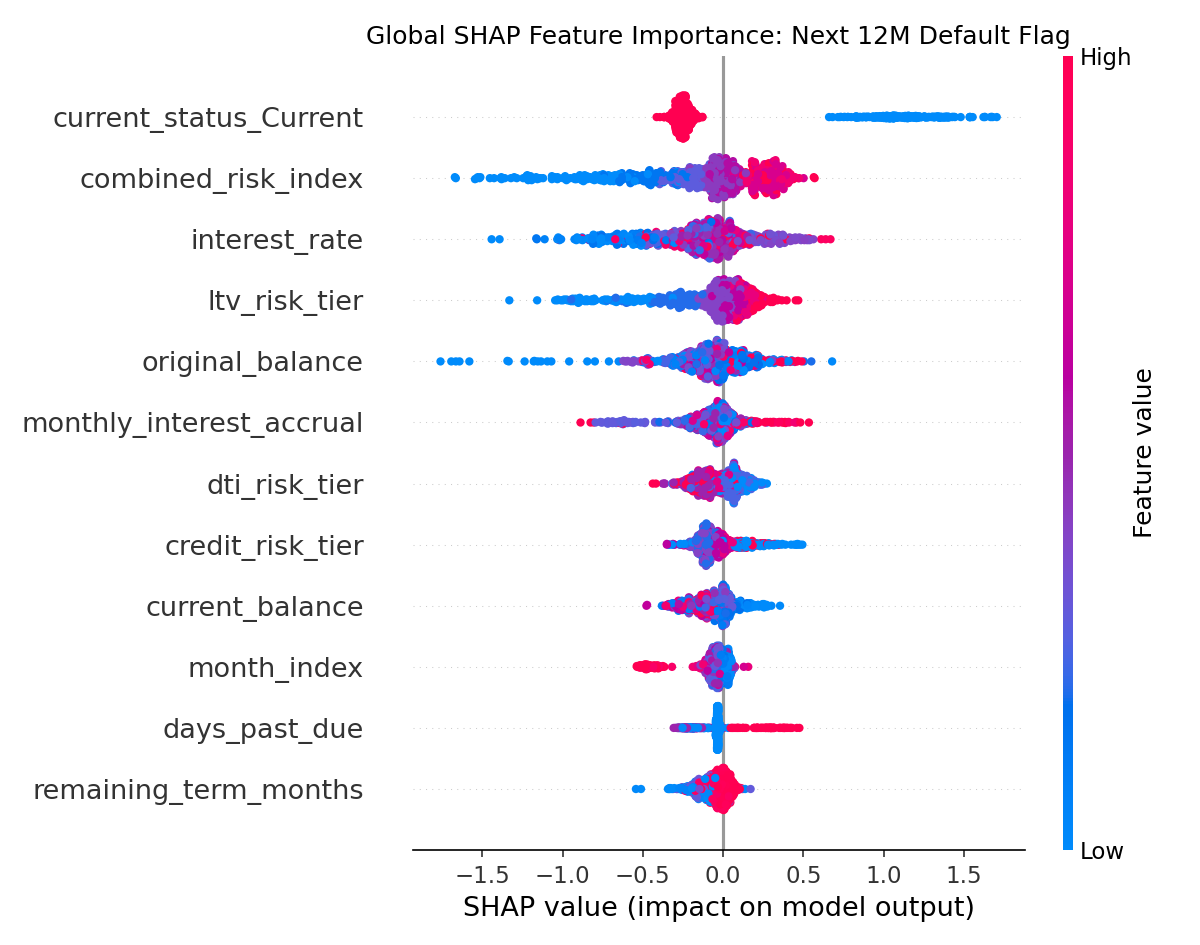
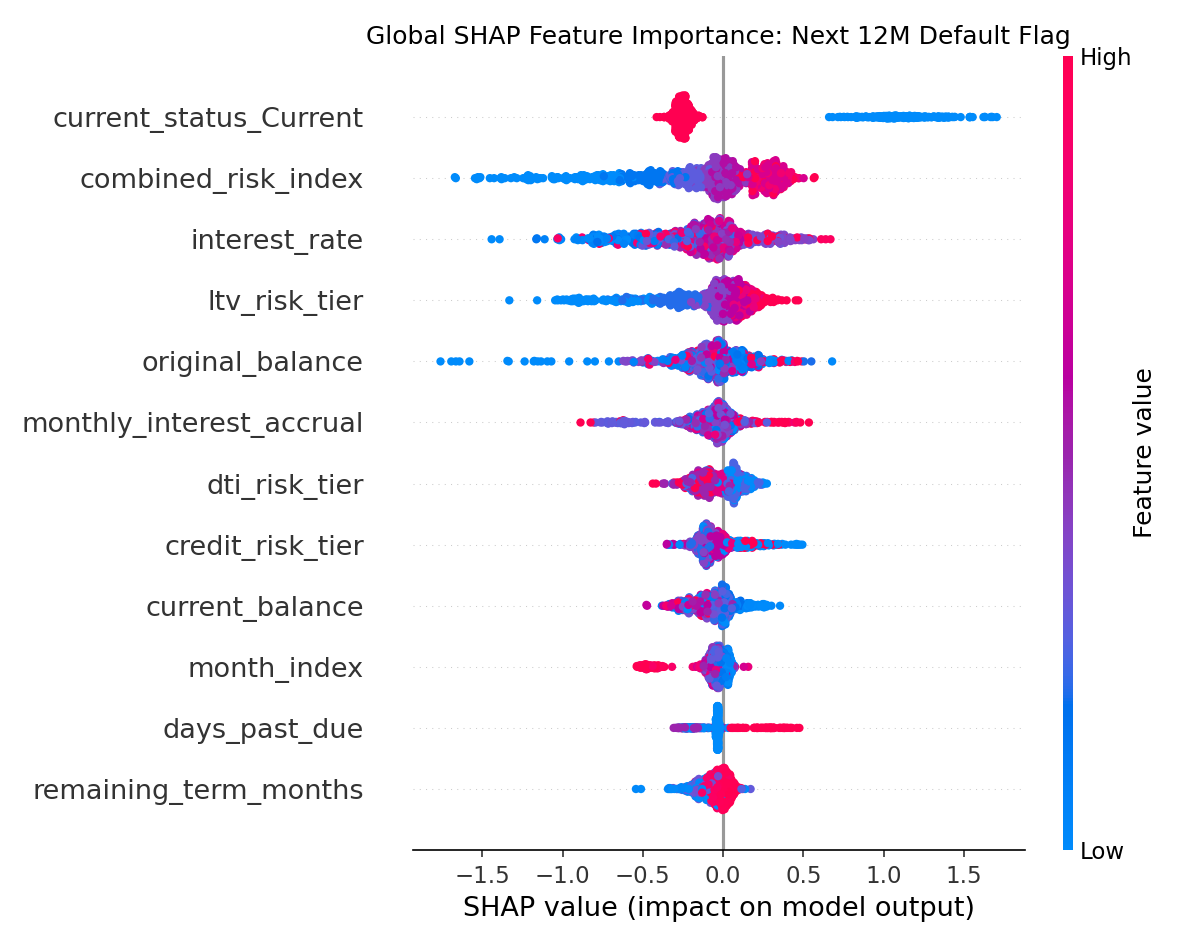
docs: sync prompt log and regenerated SHAP figure assets

Changed region(s): [[0.4625, 0.1534, 0.6783, 0.7365], [0.555, 0.7979, 0.6167, 0.8593], [0.555, 0.7672, 0.5858, 0.7979]]

diff --git a/reports/copilot_report.md b/reports/copilot_report.md
@@ -26,7 +26,7 @@ The Reviewer Copilot generates structured credit review notes that are **strictl
 ## 2. Generated Reviewer Notes (5 Loan Case Studies)
 
 ## Reviewer Note — Loan `LN000421`
-**Generated:** 2026-08-29T13:34:27.076396+00:00  
+**Generated:** 2026-08-29T14:18:46.800650+00:00  
 **Status:** N/A | **DPD:** 0 | **Balance:** $154,151.05 / $157,084.00  
 **Credit Band:** N/A
 
@@ -53,7 +53,7 @@ All required data fields are present. No data gap warnings.
 ---
 
 ## Reviewer Note — Loan `LN000308`
-**Generated:** 2026-08-29T13:34:27.156437+00:00  
+**Generated:** 2026-08-29T14:18:46.861884+00:00  
 **Status:** N/A | **DPD:** 0 | **Balance:** $299,036.96 / $306,062.00  
 **Credit Band:** N/A
 
@@ -80,7 +80,7 @@ Data unavailable for: next_3m_delinquency_flag, next_6m_delinquency_flag, next_1
 ---
 
 ## Reviewer Note — Loan `LN001626`
-**Generated:** 2026-08-29T13:34:27.416805+00:00  
+**Generated:** 2026-08-29T14:18:47.058003+00:00  
 **Status:** N/A | **DPD:** 0 | **Balance:** $473,859.12 / $476,762.00  
 **Credit Band:** N/A
 
@@ -107,7 +107,7 @@ Data unavailable for: next_3m_delinquency_flag, next_6m_delinquency_flag, next_1
 ---
 
 ## Reviewer Note — Loan `LN000688`
-**Generated:** 2026-08-29T13:34:27.495615+00:00  
+**Generated:** 2026-08-29T14:18:47.158209+00:00  
 **Status:** N/A | **DPD:** 0 | **Balance:** $143,336.19 / $144,694.00  
 **Credit Band:** N/A
 
@@ -134,7 +134,7 @@ All required data fields are present. No data gap warnings.
 ---
 
 ## Reviewer Note — Loan `LN001349`
-**Generated:** 2026-08-29T13:34:27.571484+00:00  
+**Generated:** 2026-08-29T14:18:47.236206+00:00  
 **Status:** N/A | **DPD:** 0 | **Balance:** $234,980.66 / $237,318.00  
 **Credit Band:** N/A
 
